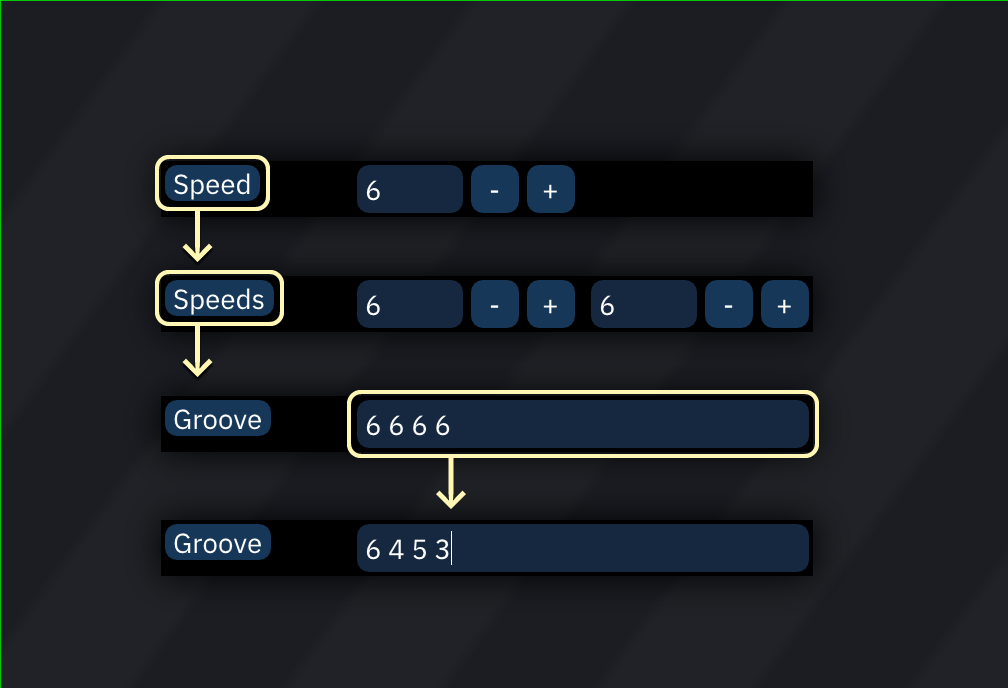
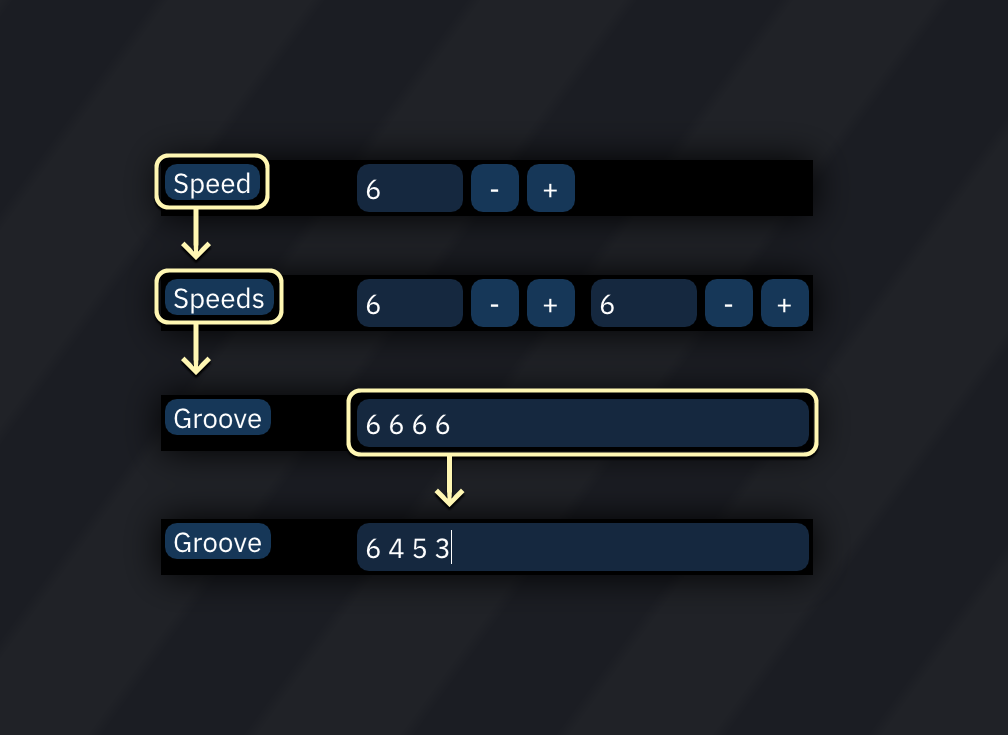
Expanded wavetable info.
Also a fix to the "groove" graphic (how did I miss it before?) and a typo fix elsewhere.

Changed region(s): [[0.1538, 0.1831, 0.8304, 0.8547], [0.6458, 0.2137, 0.8304, 0.2442]]

diff --git a/doc/5-wave/README.md b/doc/5-wave/README.md
@@ -1,23 +1,121 @@
+# wavetables
+
+Wavetable synthesizers, in context of Furnace, are sound sources that operate on extremely short n-bit PCM streams. By extremely short, no more than 256 bytes. This amount of space is nowhere near enough to store an actual sampled sound, it allows certain amount of freedom to define a waveform shape.
+
+Maximum wave width (length) is 256 bytes, and maximum wave height (depth) is 256 steps.
+
+Each chip has its own maximum size, shown in the following table. If a larger wave is defined for these chips, it will be squashed to fit within the constraints of the chips. Some hardware doesn't work well with the wavetable synthesizer (described below); these systems are marked in the "synth?" column.
+
+system              | width | height | synth?
+--------------------|------:|:-------|:-----:
+Game Boy            |    32 | 16     | 
+Game.com            |    32 | 16     | 
+SCC / Bubble System |    32 | 16     | 
+Namco WSG           |    32 | 16     | 
+WonderSwan          |    32 | 16     | 
+Namco N163          |  ≤128 | 16     | 
+Seta X1-010         |   128 | 16     | 
+Super Nintendo      |  ≤256 | 16     | 
+PC Engine           |    32 | 32     | 
+Virtual Boy         |    32 | 64     | 
+Famicom Disk System |    64 | 64     | 
+
+
 # wavetable editor
 
-Wavetable synthesizers, in context of Furnace, are sound sources that operate on extremely short n-bit PCM streams. By extremely short, no more than 256 bytes. This amount of space is nowhere near enough to store an actual sampled sound, it allows certain amount of freedom to define a waveform shape. As of Furnace 0.6pre4, wavetable editor affects PC Engine, WonderSwan, Namco WSGs, Virtual Boy, Game.com, SCC, FDS, Seta X1-010, Konami Bubble System WSG, SNES, Amiga and channel 3 of Game Boy.
+![wavetable editor](wave-editor.png)
 
-Furnace's wavetable editor is rather simple, you can draw the waveform using mouse or by pasting an MML bit stream in the input field. Maximum wave width (length) is 256 bytes, and maximum wave height (depth) is 256. NOTE: Game Boy, PCE, WonderSwan, Namco WSG, N163, Game.com, Virtual Boy and Bubble System can handle max 32 byte waveforms, X1-010 can handle max 128 byte waveforms as of now, with 16-level height for GB, X1-010 Envelope, WS, Bubble System, SNES, Namco WSG and N163, 32-level height for PCE and 64-level height for Virtual Boy. If a larger wave is defined for these chips, it will be squashed to fit within the constraints of the chips.
+controls across the top line:
+- waveform number. the `-` and `+` buttons step through the list.
+- open.
+- save.
+- **Steps**: view waveform as discrete blocks.
+- **Lines**: view waveform as a continuous line.
+- **Width**: length of the waveform data. maximum is 256.
+- **Height**: depth of the waveform. maximum is 256.
+- arrow button: toggle tabs (described below).
 
-Furnace's wavetable editor features multiple ways of creating desired waveform shape:
+waveform display:
+- the waveform is directly editable with the mouse.
+- hovering will display a tooltip with the waveform position and value.
 
-- **Shape** tab allows you to select a few predefined basic shapes and indirectly edit it via "Duty", "Exponent" and "XOR Point" sliders:
-  - **Duty**: Affects mainly pulse waves, determining its wisth, like on C64/VRC6
-  - **Exponent**: Powers the waveform in the mathematical sense of the word (^2, ^3 and so on)
-  - **XOR Point**: Determines the point where the waveform gets negated.
-  - _TODO:_ amplitude/phase part
-- **FM** for creating the waveform with frequency modulation synthesis principles: One can set carrier/modulation levels, frquency multiplier, connection between operators and FM waveforms of these operators.
-- **WaveTools**: Allows user to fine-tune the waveform: scale said waveform in both X and Y axes, smoothen, amplify, normalize, convert to signed/unisgned, invert or even randomize the wavetable.
+controls across the bottom line:
+- **Dec**: view MML stream as decimal.
+- **Hex**: view MML stream as hexadecimal.
+- `+`/`±`: toggle MML stream as unsigned/signed. also adjusts waveform display.
+- MML stream: waveform data as an editable numeric sequence.
 
-## wavetable synthesizer
+## tabs
 
-Furnace contains a mode for wavetable instruments that allows you to modulate or combine 1 or 2 waves to create unique "animated" sounds. Think of it like a VST or a plugin, as it's basically an extension of regular wavetable soundchips that still allow it to run on real hardware.
+each tab provides different ways of creating or altering a waveform.
+
+### Shapes
+
+![wavetable shape tab](wave-editor-shapes.png)
+
+this creates a waveform by adding together a few predefined basic wave shapes.
+- shape: select shape from sine, triangle, saw, and square.
+- **Duty**: only affects pulse waves, determining their width
+- **Exponent**: applies an exponent (power) to the waveform (^2, ^3 and so on).
+- **XOR Point**: determines the point where the waveform gets negated.
+- **Amplitude/Phase**: add together up to 16 instances of the shape.
+  - **Amplitude**: height of the shape.
+  - **Phase**: position along the shape. for example, 0.250 starts the shape a quarter of the way along.
+
+### FM
+
+![wavetable FM tab](wave-editor-FM.png)
+
+this creates a waveform using frequency modulation synthesis with up to four operators.
+
+one can set carrier/modulation levels, frequency multipliers, connections between operators and FM waveforms of these operators.
+
+### WaveTools
+
+![wavetable tools tab](wave-editor-tools.png)
+
+these are useful editing tools to fine-tune the waveform:
+- **Scale X**: stretches the waveform to a new length.
+- interpolation method: filters the waveform when stretching. choose from none, linear, cosine, and cubic interpolation.
+- **Scale Y**: resizes the waveform to a new height. it will clip at the top and bottom.
+- **Offset X**: slides the the waveform forward or back. it will wrap around.
+- **Offset Y**: slides the waveform up or down. it will clip at the top and bottom.
+- **Smooth**. smooths waveform.
+- **Amplify**. changes the volume of the waveform. it will clip at the top and bottom.
+- **Normalize**: stretches waveform to maximum within the wavetable height.
+- **Invert**: flips waveform vertically.
+- **Half**: halves the waveform's frequency by stretching its first half to fill the waveform length.
+- **Double**: doubles the waveform's frequency by squashing it to half length then repeating it.
+- **Convert Signed/Unsigned**. worth trying if an imported wave sounds corrupted.
+- **Randomize**: generate a completely random waveform.
+
+
+
+# wavetable synthesizer
+
+Within the "Wavetable" tab of the instrument editor, Furnace allows you to modulate or combine 1 or 2 waves to create unique "animated" sounds. Think of it like a VST or a plugin, as it's basically an extension of regular wavetable soundchips that still allow it to run on real hardware.
 
 This is accomplished by selecting a wave or two, a mode, and adjusting the settings as needed until you come up with a sound that you like, without taking up a load of space. This allows you to create unique sound effects or instruments, that, when used well, almost sound like they're Amiga samples.
 
-Unfortunately, on chips like the HuC6280, you cannot use the wavetable synth to animate waveforms and have them sound smooth, as the chip resets the channel's phase when a waveform is changed while the channel is playing. On certain frequencies, this can be avoided, but not on most, unfortunately.
+Unfortunately, on some chips like the HuC6280, you cannot use the wavetable synth to animate waveforms and have them sound smooth, as the chip resets the channel's phase when a waveform is changed while the channel is playing. On certain frequencies, this can be avoided, but not on most, unfortunately.
+
+![instrument wavetable tab](instrument-wavetable.png)
+
+input waveforms should match the size of the wavetable or unexpected results may occur.
+
+- **Enable synthesizer**: must be on for the rest of this to work.
+- synthesizer type: selects the synthesis algorithm.
+- waveform displays.
+- **Wave 1**: selects input waveform.
+- **Wave 2**: selects second input waveform. only appears when a dual-waveform synthesizer is selected.
+- **Pause preview**: toggles live waveform preview.
+- **Restart preview**: restarts preview from initial state.
+- **Copy to new wavetable**: copies the currently displayed output waveform into the wavetable as a new entry.
+- (width×height): size of wavetable.
+- **Update Rate**: time in ticks between waveform changes.
+- **Speed**: rate of change with each update.
+- **Amount**: strength of synthesizer function.
+- **Power**: only appears when synthesizer type is "Phase Modulation".
+- **Global**:
+  - if disabled, each note resets the synthesizer to the start.
+  - if enabled, synthesis continues unbroken from note to note.

diff --git a/doc/4-instrument/scc.md b/doc/4-instrument/scc.md
@@ -4,5 +4,5 @@ The SCC/Bubble System WSG instrument editor consists of these macros:
 
 - **Volume**: volume sequence
 - **Arpeggio**: pitch sequence
-- **Waveform**: spicifies wavetables sequence
+- **Waveform**: specifies wavetable sequence
 - **Pitch**: fine pitch
